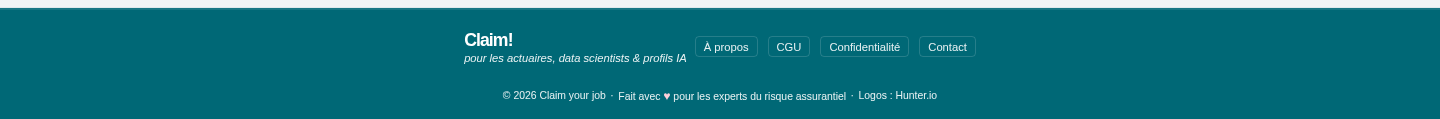
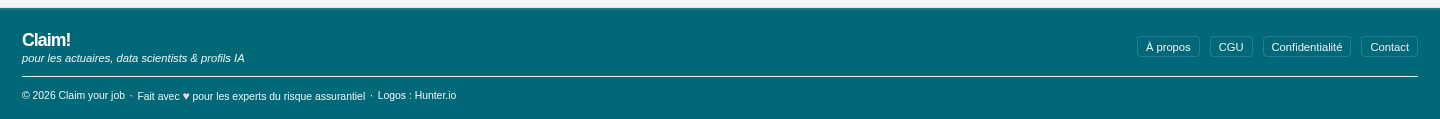
fix(chrome): le pied ne depend plus du corps de page, comme l'en-tete
Le pied mesurait 131 px sur le board et 111 px sur Entreprises : meme
cause que l'en-tete, l'interligne du corps de page. L'interligne est
desormais pose dans le pied de reference.

diff --git a/claim-entreprises.html b/claim-entreprises.html
@@ -689,6 +689,7 @@ en documentation).
 
 
 
+
   /* ══ RÉFÉRENTIEL — en-tête de l'accueil, pied du board ══
      Ces regles sont posees en fin de feuille : plus specifiques que
      celles du milieu de la page, elles ne peuvent pas etre annulees
@@ -738,7 +739,11 @@ en documentation).
   #ft { flex-shrink: 0; background: var(--teal-fond); color: rgba(255,255,255,0.9);
         padding: 1.25rem 1.375rem 1rem; display: flex; flex-direction: column;
         align-items: stretch; gap: .75rem;
-        border-top: 2px solid rgba(255,255,255,.1); }
+        border-top: 2px solid rgba(255,255,255,.1);
+        /* Comme l'en-tete, l'interligne est pose ici : le pied mesure 131 px
+           sur le board et 111 px sur Entreprises, selon l'interligne du
+           corps de page. Un pied de reference ne depend pas du reste. */
+        line-height: 1.65; }
   #ft .ft-top { display: flex; align-items: center; justify-content: space-between; gap: .5rem; }
   #ft .ft-logo { font-size: 1.1rem; font-weight: 900; color: var(--blanc);
                  letter-spacing: -.05em; text-decoration: none; }

diff --git a/claim-observatoire.html b/claim-observatoire.html
@@ -853,6 +853,7 @@ en documentation).
 
 
 
+
   /* ══ RÉFÉRENTIEL — en-tête de l'accueil, pied du board ══
      Ces regles sont posees en fin de feuille : plus specifiques que
      celles du milieu de la page, elles ne peuvent pas etre annulees
@@ -902,7 +903,11 @@ en documentation).
   #ft { flex-shrink: 0; background: var(--teal-fond); color: rgba(255,255,255,0.9);
         padding: 1.25rem 1.375rem 1rem; display: flex; flex-direction: column;
         align-items: stretch; gap: .75rem;
-        border-top: 2px solid rgba(255,255,255,.1); }
+        border-top: 2px solid rgba(255,255,255,.1);
+        /* Comme l'en-tete, l'interligne est pose ici : le pied mesure 131 px
+           sur le board et 111 px sur Entreprises, selon l'interligne du
+           corps de page. Un pied de reference ne depend pas du reste. */
+        line-height: 1.65; }
   #ft .ft-top { display: flex; align-items: center; justify-content: space-between; gap: .5rem; }
   #ft .ft-logo { font-size: 1.1rem; font-weight: 900; color: var(--blanc);
                  letter-spacing: -.05em; text-decoration: none; }

diff --git a/index.html b/index.html
@@ -610,6 +610,7 @@ en documentation).
 
 
 
+
   /* ══ RÉFÉRENTIEL — en-tête de l'accueil, pied du board ══
      Ces regles sont posees en fin de feuille : plus specifiques que
      celles du milieu de la page, elles ne peuvent pas etre annulees
@@ -659,7 +660,11 @@ en documentation).
   #ft { flex-shrink: 0; background: var(--teal-fond); color: rgba(255,255,255,0.9);
         padding: 1.25rem 1.375rem 1rem; display: flex; flex-direction: column;
         align-items: stretch; gap: .75rem;
-        border-top: 2px solid rgba(255,255,255,.1); }
+        border-top: 2px solid rgba(255,255,255,.1);
+        /* Comme l'en-tete, l'interligne est pose ici : le pied mesure 131 px
+           sur le board et 111 px sur Entreprises, selon l'interligne du
+           corps de page. Un pied de reference ne depend pas du reste. */
+        line-height: 1.65; }
   #ft .ft-top { display: flex; align-items: center; justify-content: space-between; gap: .5rem; }
   #ft .ft-logo { font-size: 1.1rem; font-weight: 900; color: var(--blanc);
                  letter-spacing: -.05em; text-decoration: none; }

diff --git a/job-board.html b/job-board.html
@@ -774,6 +774,7 @@ en documentation).
 
 
 
+
   /* ══ RÉFÉRENTIEL — en-tête de l'accueil, pied du board ══
      Ces regles sont posees en fin de feuille : plus specifiques que
      celles du milieu de la page, elles ne peuvent pas etre annulees
@@ -823,7 +824,11 @@ en documentation).
   #ft { flex-shrink: 0; background: var(--teal-fond); color: rgba(255,255,255,0.9);
         padding: 1.25rem 1.375rem 1rem; display: flex; flex-direction: column;
         align-items: stretch; gap: .75rem;
-        border-top: 2px solid rgba(255,255,255,.1); }
+        border-top: 2px solid rgba(255,255,255,.1);
+        /* Comme l'en-tete, l'interligne est pose ici : le pied mesure 131 px
+           sur le board et 111 px sur Entreprises, selon l'interligne du
+           corps de page. Un pied de reference ne depend pas du reste. */
+        line-height: 1.65; }
   #ft .ft-top { display: flex; align-items: center; justify-content: space-between; gap: .5rem; }
   #ft .ft-logo { font-size: 1.1rem; font-weight: 900; color: var(--blanc);
                  letter-spacing: -.05em; text-decoration: none; }

diff --git a/a-propos.html b/a-propos.html
@@ -139,6 +139,7 @@
 
 
 
+
   /* ══ RÉFÉRENTIEL — en-tête de l'accueil, pied du board ══
      Ces regles sont posees en fin de feuille : plus specifiques que
      celles du milieu de la page, elles ne peuvent pas etre annulees
@@ -188,7 +189,11 @@
   #ft { flex-shrink: 0; background: var(--teal-fond); color: rgba(255,255,255,0.9);
         padding: 1.25rem 1.375rem 1rem; display: flex; flex-direction: column;
         align-items: stretch; gap: .75rem;
-        border-top: 2px solid rgba(255,255,255,.1); }
+        border-top: 2px solid rgba(255,255,255,.1);
+        /* Comme l'en-tete, l'interligne est pose ici : le pied mesure 131 px
+           sur le board et 111 px sur Entreprises, selon l'interligne du
+           corps de page. Un pied de reference ne depend pas du reste. */
+        line-height: 1.65; }
   #ft .ft-top { display: flex; align-items: center; justify-content: space-between; gap: .5rem; }
   #ft .ft-logo { font-size: 1.1rem; font-weight: 900; color: var(--blanc);
                  letter-spacing: -.05em; text-decoration: none; }

diff --git a/cgu.html b/cgu.html
@@ -139,6 +139,7 @@
 
 
 
+
   /* ══ RÉFÉRENTIEL — en-tête de l'accueil, pied du board ══
      Ces regles sont posees en fin de feuille : plus specifiques que
      celles du milieu de la page, elles ne peuvent pas etre annulees
@@ -188,7 +189,11 @@
   #ft { flex-shrink: 0; background: var(--teal-fond); color: rgba(255,255,255,0.9);
         padding: 1.25rem 1.375rem 1rem; display: flex; flex-direction: column;
         align-items: stretch; gap: .75rem;
-        border-top: 2px solid rgba(255,255,255,.1); }
+        border-top: 2px solid rgba(255,255,255,.1);
+        /* Comme l'en-tete, l'interligne est pose ici : le pied mesure 131 px
+           sur le board et 111 px sur Entreprises, selon l'interligne du
+           corps de page. Un pied de reference ne depend pas du reste. */
+        line-height: 1.65; }
   #ft .ft-top { display: flex; align-items: center; justify-content: space-between; gap: .5rem; }
   #ft .ft-logo { font-size: 1.1rem; font-weight: 900; color: var(--blanc);
                  letter-spacing: -.05em; text-decoration: none; }

diff --git a/confidentialite.html b/confidentialite.html
@@ -139,6 +139,7 @@
 
 
 
+
   /* ══ RÉFÉRENTIEL — en-tête de l'accueil, pied du board ══
      Ces regles sont posees en fin de feuille : plus specifiques que
      celles du milieu de la page, elles ne peuvent pas etre annulees
@@ -188,7 +189,11 @@
   #ft { flex-shrink: 0; background: var(--teal-fond); color: rgba(255,255,255,0.9);
         padding: 1.25rem 1.375rem 1rem; display: flex; flex-direction: column;
         align-items: stretch; gap: .75rem;
-        border-top: 2px solid rgba(255,255,255,.1); }
+        border-top: 2px solid rgba(255,255,255,.1);
+        /* Comme l'en-tete, l'interligne est pose ici : le pied mesure 131 px
+           sur le board et 111 px sur Entreprises, selon l'interligne du
+           corps de page. Un pied de reference ne depend pas du reste. */
+        line-height: 1.65; }
   #ft .ft-top { display: flex; align-items: center; justify-content: space-between; gap: .5rem; }
   #ft .ft-logo { font-size: 1.1rem; font-weight: 900; color: var(--blanc);
                  letter-spacing: -.05em; text-decoration: none; }

diff --git a/contact.html b/contact.html
@@ -139,6 +139,7 @@
 
 
 
+
   /* ══ RÉFÉRENTIEL — en-tête de l'accueil, pied du board ══
      Ces regles sont posees en fin de feuille : plus specifiques que
      celles du milieu de la page, elles ne peuvent pas etre annulees
@@ -188,7 +189,11 @@
   #ft { flex-shrink: 0; background: var(--teal-fond); color: rgba(255,255,255,0.9);
         padding: 1.25rem 1.375rem 1rem; display: flex; flex-direction: column;
         align-items: stretch; gap: .75rem;
-        border-top: 2px solid rgba(255,255,255,.1); }
+        border-top: 2px solid rgba(255,255,255,.1);
+        /* Comme l'en-tete, l'interligne est pose ici : le pied mesure 131 px
+           sur le board et 111 px sur Entreprises, selon l'interligne du
+           corps de page. Un pied de reference ne depend pas du reste. */
+        line-height: 1.65; }
   #ft .ft-top { display: flex; align-items: center; justify-content: space-between; gap: .5rem; }
   #ft .ft-logo { font-size: 1.1rem; font-weight: 900; color: var(--blanc);
                  letter-spacing: -.05em; text-decoration: none; }
